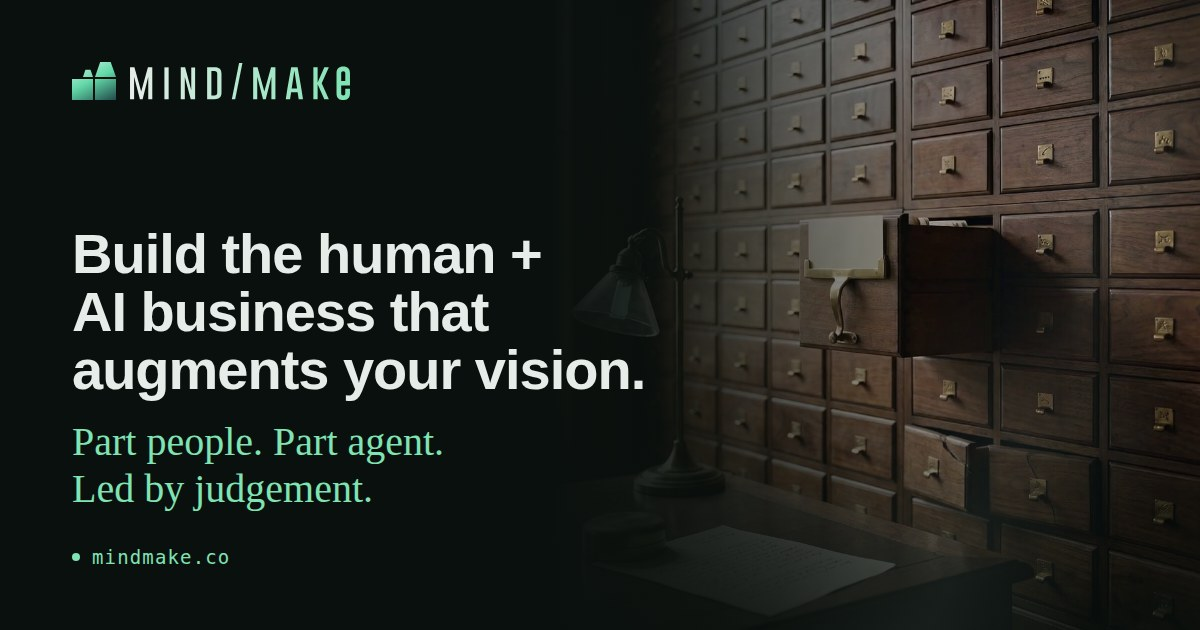
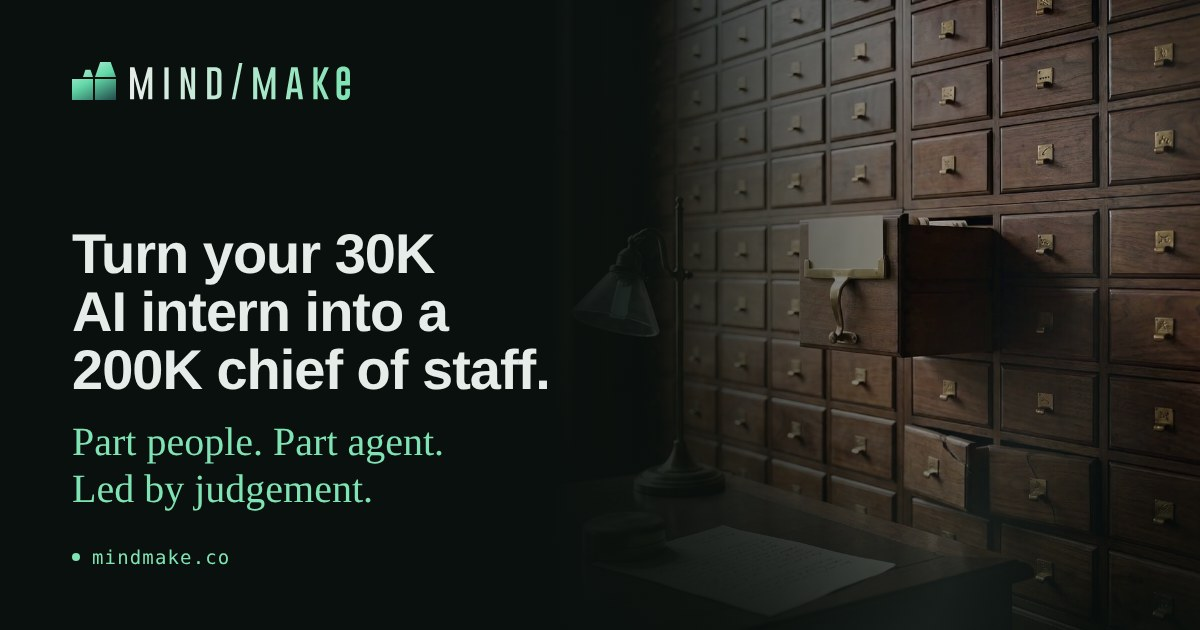
front door r1: the rotation leads with the AI brain line; AI revenue engine
Krish, 15 October 2026: "we need to have the right headlines on rotation,
with the most impactful first", from his pitch line "An AI brain layer
basically turns your AI tool from a 30K intern into a 200K chief of staff".

- The hero rotation leads with "Turn your 30K AI intern into a 200K chief of
  staff.", which is also the h1 and the page title; the standards, taste and
  judgement lines keep their places, R3's headline turns fifth, and "Your
  business levels up when you do." is retired. A new unit test holds the
  rotation's first line to the generated h1, which nothing checked before.
- "Build your AI GTM" becomes "Build your AI revenue engine" everywhere a
  visitor reads it on the site (doors, menus, footer, route-back control,
  /ai-gtm's labels and title, the brief); the /ai-gtm address and the brief
  emails are unchanged. The brain door reads "Unlock and create the idea
  you've been sitting on."
- The generator makes the change (the R3 source is untouched) and asserts no
  "GTM" is left in the homepage markup. Canon and North Star changed first.
- Only the home and /ai-gtm share images are repainted; the other 30 were
  restored after the painter re-encoded them.
- The change is declared word for word in artifacts/front-door-r1/delta.json,
  and every page is compared against the live site before review.

Not merged: this waits for Krish's approval of the rendered result.

Route lock regenerated for the sixteen locked files this commit edits on
[…]

diff --git a/src/components/homepage-release/markup.ts b/src/components/homepage-release/markup.ts
@@ -25,11 +25,11 @@ export const homepageMarkup = `<a class="skip-link" href="#history">Skip to the 
                 </video>
                 <div class="film-wash" aria-hidden="true"></div>
                 <div class="hero-copy">
-                  <h1><span class="mm-hero-line"><span class="mm-hero-row">Build the human + AI</span> <span class="mm-hero-row">business that augments</span> <span class="mm-hero-row"><span class="mm-hero-your">your</span> vision.</span></span></h1>
+                  <h1><span class="mm-hero-line"><span class="mm-hero-row">Turn <span class="mm-hero-your">your</span> 30K AI</span> <span class="mm-hero-row">intern into a 200K</span> <span class="mm-hero-row">chief of staff.</span></span></h1>
                   <p class="hero-lede">For leaders in creative industries with the high standards and curiosity required to drive the new era.</p>
                   <div class="route-doors" role="group" aria-label="Choose a Mindmake route">
-                    <a href="/ai-brain" data-route-choice="brain"><span>Build your</span><strong>AI brain</strong><small>Your judgement, taste, standards & vision, encoded. </small><i>↗</i></a>
-                    <a href="/ai-gtm" data-route-choice="gtm"><span>Build your</span><strong>AI GTM</strong><small>The pricing, positioning and org structure you'll need.</small><i>↗</i></a>
+                    <a href="/ai-brain" data-route-choice="brain"><span>Build your</span><strong>AI brain</strong><small>Unlock and create the idea you've been sitting on.</small><i>↗</i></a>
+                    <a href="/ai-gtm" data-route-choice="gtm"><span>Build your</span><strong>AI revenue engine</strong><small>The pricing, positioning and org structure you'll need.</small><i>↗</i></a>
                   </div>
                 </div>
               </section>
@@ -47,11 +47,11 @@ export const homepageMarkup = `<a class="skip-link" href="#history">Skip to the 
                 </video>
                 <div class="film-wash" aria-hidden="true"></div>
                 <div class="hero-copy">
-                  <h1><span class="mm-hero-line"><span class="mm-hero-row">Build the human + AI</span> <span class="mm-hero-row">business that augments</span> <span class="mm-hero-row"><span class="mm-hero-your">your</span> vision.</span></span></h1>
+                  <h1><span class="mm-hero-line"><span class="mm-hero-row">Turn <span class="mm-hero-your">your</span> 30K AI</span> <span class="mm-hero-row">intern into a 200K</span> <span class="mm-hero-row">chief of staff.</span></span></h1>
                   <p class="hero-lede">For leaders in creative industries with the high standards and curiosity required to drive the new era.</p>
                   <div class="route-doors" role="group" aria-label="Choose a Mindmake route">
-                    <a href="/ai-brain" data-route-choice="brain"><span>Build your</span><strong>AI brain</strong><small>Your judgement, taste, standards & vision, encoded. </small><i>↗</i></a>
-                    <a href="/ai-gtm" data-route-choice="gtm"><span>Build your</span><strong>AI GTM</strong><small>The pricing, positioning and org structure you'll need.</small><i>↗</i></a>
+                    <a href="/ai-brain" data-route-choice="brain"><span>Build your</span><strong>AI brain</strong><small>Unlock and create the idea you've been sitting on.</small><i>↗</i></a>
+                    <a href="/ai-gtm" data-route-choice="gtm"><span>Build your</span><strong>AI revenue engine</strong><small>The pricing, positioning and org structure you'll need.</small><i>↗</i></a>
                   </div>
                 </div>
               </section>
@@ -75,22 +75,22 @@ export const homepageMarkup = `<a class="skip-link" href="#history">Skip to the 
       <section id="route" class="r3-section r3-route r3-reveal" data-component="route">
         <div class="r3-variant preview-desktop"><div class="site-frame" data-composition-desktop="balanced" data-title-desktop="balanced" data-measure-desktop="balanced" data-action="copy" data-back="text" data-caption="show" data-receipt="full" data-steps="numbered" data-reveal="staged">
             
-            <section class="route-stage"><video muted="" loop="" playsinline="" preload="none" aria-hidden="true" poster="${asset2}"><source src="${asset3}" type="video/mp4" media="(min-width: 701px)"></video><div class="wash"></div><button class="back" type="button" data-route-toggle="true">← <span>AI Brain or AI GTM</span></button>			<div class="route-copy" aria-live="polite"><h2>Own your judgement, and amplify it.</h2><p class="lede">Give your standards, taste and business vision a seat at the table, and level up your capabilities as a leader.</p><button class="primary" type="button" data-start-route="brain">Get your free AI brief <span>→</span></button></div><figure></figure><article class="receipt"><header><h3>What stays with you</h3></header><ol><li>Your brain, built out.</li><li>The systems that amplify you, proven.</li><li>The confidence of being an AI era leader.</li></ol></article></section>
+            <section class="route-stage"><video muted="" loop="" playsinline="" preload="none" aria-hidden="true" poster="${asset2}"><source src="${asset3}" type="video/mp4" media="(min-width: 701px)"></video><div class="wash"></div><button class="back" type="button" data-route-toggle="true">← <span>AI brain or AI revenue engine</span></button>			<div class="route-copy" aria-live="polite"><h2>Own your judgement, and amplify it.</h2><p class="lede">Give your standards, taste and business vision a seat at the table, and level up your capabilities as a leader.</p><button class="primary" type="button" data-start-route="brain">Get your free AI brief <span>→</span></button></div><figure></figure><article class="receipt"><header><h3>What stays with you</h3></header><ol><li>Your brain, built out.</li><li>The systems that amplify you, proven.</li><li>The confidence of being an AI era leader.</li></ol></article></section>
           </div></div><div class="r3-variant preview-mobile"><div class="site-frame" data-composition-mobile="copy" data-title-mobile="balanced" data-measure-mobile="balanced" data-action="copy" data-back="text" data-caption="show" data-receipt="full" data-steps="numbered" data-reveal="staged">
             
-            <section class="route-stage"><video muted="" loop="" playsinline="" preload="none" aria-hidden="true" poster="${asset2}"><source src="${asset3}" type="video/mp4" media="(max-width: 700px)"></video><div class="wash"></div><button class="back" type="button" data-route-toggle="true">← <span>AI Brain or AI GTM</span></button>			<div class="route-copy" aria-live="polite"><h2>Own your judgement, and amplify it.</h2><p class="lede">Give your standards, taste and business vision a seat at the table, and level up your capabilities as a leader.</p><button class="primary" type="button" data-start-route="brain">Get your free AI brief <span>→</span></button></div><figure></figure><article class="receipt"><header><h3>What stays with you</h3></header><ol><li>Your brain, built out.</li><li>The systems that amplify you, proven.</li><li>The confidence of being an AI era leader.</li></ol></article></section>
+            <section class="route-stage"><video muted="" loop="" playsinline="" preload="none" aria-hidden="true" poster="${asset2}"><source src="${asset3}" type="video/mp4" media="(max-width: 700px)"></video><div class="wash"></div><button class="back" type="button" data-route-toggle="true">← <span>AI brain or AI revenue engine</span></button>			<div class="route-copy" aria-live="polite"><h2>Own your judgement, and amplify it.</h2><p class="lede">Give your standards, taste and business vision a seat at the table, and level up your capabilities as a leader.</p><button class="primary" type="button" data-start-route="brain">Get your free AI brief <span>→</span></button></div><figure></figure><article class="receipt"><header><h3>What stays with you</h3></header><ol><li>Your brain, built out.</li><li>The systems that amplify you, proven.</li><li>The confidence of being an AI era leader.</li></ol></article></section>
           </div></div>
       </section>
-      <section id="footer" class="r3-footer r3-reveal" data-component="footer"><div class="r3-variant preview-desktop"><footer class="site-footer" data-structure-desktop="rail" data-density-desktop="compact" data-brand="full" data-statement="short" data-routes="single" data-legal="bottom" data-copyright="short" data-ground="dark" data-rule="accent" data-reveal="scroll"><div class="brand-block"><a class="brand" href="/" aria-label="Mindmake home"><img class="mark" src="${asset0}" alt=""><img class="wordmark" src="${asset1}" alt="Mindmake"></a><p class="footer-statement">Keep your edge as AI<br>changes the market.</p><a class="mm-subscribe-cta" href="https://makeyourmindup.ai" target="_blank" rel="noreferrer" data-subscribe-source="homepage_footer">Subscribe for free <span aria-hidden="true">↗</span></a></div><nav class="footer-routes" aria-label="Footer navigation"><a href="/">Home</a><a href="/ai-brain">Build your AI brain</a><a href="/ai-gtm">Build your AI GTM</a><a href="/case-studies">Success stories</a><a href="/blog">Ideas you can use</a><a href="/faq">Questions we get asked</a><a href="/about">About us</a><a href="https://makeyourmindup.ai" target="_blank" rel="noreferrer">Media</a><a href="/start">Get your free AI brief</a></nav><nav class="legal" aria-label="Legal navigation"><a href="/privacy">Privacy</a><a href="/terms">Terms</a></nav><small>© 2026 Mindmake.</small></footer></div><div class="r3-variant preview-mobile"><footer class="site-footer" data-structure-mobile="compact" data-density-mobile="compact" data-brand="full" data-statement="short" data-routes="single" data-legal="bottom" data-copyright="short" data-ground="dark" data-rule="accent" data-reveal="scroll"><div class="brand-block"><a class="brand" href="/" aria-label="Mindmake home"><img class="mark" src="${asset0}" alt=""><img class="wordmark" src="${asset1}" alt="Mindmake"></a><p class="footer-statement">Keep your edge as AI<br>changes the market.</p><a class="mm-subscribe-cta" href="https://makeyourmindup.ai" target="_blank" rel="noreferrer" data-subscribe-source="homepage_footer">Subscribe for free <span aria-hidden="true">↗</span></a></div><nav class="legal" aria-label="Legal navigation"><a href="/privacy">Privacy</a><a href="/terms">Terms</a></nav><small>© 2026 Mindmake.</small></footer></div></section>
+      <section id="footer" class="r3-footer r3-reveal" data-component="footer"><div class="r3-variant preview-desktop"><footer class="site-footer" data-structure-desktop="rail" data-density-desktop="compact" data-brand="full" data-statement="short" data-routes="single" data-legal="bottom" data-copyright="short" data-ground="dark" data-rule="accent" data-reveal="scroll"><div class="brand-block"><a class="brand" href="/" aria-label="Mindmake home"><img class="mark" src="${asset0}" alt=""><img class="wordmark" src="${asset1}" alt="Mindmake"></a><p class="footer-statement">Keep your edge as AI<br>changes the market.</p><a class="mm-subscribe-cta" href="https://makeyourmindup.ai" target="_blank" rel="noreferrer" data-subscribe-source="homepage_footer">Subscribe for free <span aria-hidden="true">↗</span></a></div><nav class="footer-routes" aria-label="Footer navigation"><a href="/">Home</a><a href="/ai-brain">Build your AI brain</a><a href="/ai-gtm">Build your AI revenue engine</a><a href="/case-studies">Success stories</a><a href="/blog">Ideas you can use</a><a href="/faq">Questions we get asked</a><a href="/about">About us</a><a href="https://makeyourmindup.ai" target="_blank" rel="noreferrer">Media</a><a href="/start">Get your free AI brief</a></nav><nav class="legal" aria-label="Legal navigation"><a href="/privacy">Privacy</a><a href="/terms">Terms</a></nav><small>© 2026 Mindmake.</small></footer></div><div class="r3-variant preview-mobile"><footer class="site-footer" data-structure-mobile="compact" data-density-mobile="compact" data-brand="full" data-statement="short" data-routes="single" data-legal="bottom" data-copyright="short" data-ground="dark" data-rule="accent" data-reveal="scroll"><div class="brand-block"><a class="brand" href="/" aria-label="Mindmake home"><img class="mark" src="${asset0}" alt=""><img class="wordmark" src="${asset1}" alt="Mindmake"></a><p class="footer-statement">Keep your edge as AI<br>changes the market.</p><a class="mm-subscribe-cta" href="https://makeyourmindup.ai" target="_blank" rel="noreferrer" data-subscribe-source="homepage_footer">Subscribe for free <span aria-hidden="true">↗</span></a></div><nav class="legal" aria-label="Legal navigation"><a href="/privacy">Privacy</a><a href="/terms">Terms</a></nav><small>© 2026 Mindmake.</small></footer></div></section>
     </main>
     <aside class="r3-navigation" aria-hidden="true" aria-label="Site navigation" role="dialog" aria-modal="true" inert><div class="r3-variant preview-desktop"><div class="site-frame" data-structure-desktop="index" data-scale-desktop="balanced" data-density-desktop="balanced" data-order="build" data-secondary="footer" data-active="rule" data-action="bar" data-ground="solid" data-entrance="stepped">
               
               <div class="ground" aria-hidden="true"></div>
               <header class="site-masthead"><a class="brand" href="/" aria-label="Mindmake home" tabindex="-1"><img class="mark" src="${asset0}" alt=""><img class="wordmark" src="${asset1}" alt="Mindmake"></a><button class="menu-control" type="button" aria-label="Close navigation"><b>Close</b><i aria-hidden="true"></i></button></header>
-              <div class="menu-surface"><nav class="primary-routes" aria-label="Main navigation"><a href="/">Home</a><a href="/ai-brain">Build your AI brain</a><a href="/ai-gtm">Build your AI GTM</a><a href="/case-studies">Success stories</a><a href="/blog">Ideas you can use</a><a href="/faq">Questions we get asked</a><a href="/about">About us</a><a href="https://makeyourmindup.ai" target="_blank" rel="noreferrer" class="mm-route-badged" data-badge="Subscribe for free">Media</a></nav><a class="start-action" type="button" href="/start">Get your free AI brief <span aria-hidden="true">→</span></a><nav class="secondary-routes" aria-label="Additional navigation"><a href="/privacy">Privacy</a><a href="/terms">Terms</a></nav></div>
+              <div class="menu-surface"><nav class="primary-routes" aria-label="Main navigation"><a href="/">Home</a><a href="/ai-brain">Build your AI brain</a><a href="/ai-gtm">Build your AI revenue engine</a><a href="/case-studies">Success stories</a><a href="/blog">Ideas you can use</a><a href="/faq">Questions we get asked</a><a href="/about">About us</a><a href="https://makeyourmindup.ai" target="_blank" rel="noreferrer" class="mm-route-badged" data-badge="Subscribe for free">Media</a></nav><a class="start-action" type="button" href="/start">Get your free AI brief <span aria-hidden="true">→</span></a><nav class="secondary-routes" aria-label="Additional navigation"><a href="/privacy">Privacy</a><a href="/terms">Terms</a></nav></div>
             </div></div><div class="r3-variant preview-mobile"><div class="site-frame" data-structure-mobile="list" data-scale-mobile="balanced" data-density-mobile="balanced" data-order="build" data-secondary="footer" data-active="rule" data-action="bar" data-ground="solid" data-entrance="stepped">
               
               <div class="ground" aria-hidden="true"></div>
               <header class="site-masthead"><a class="brand" href="/" aria-label="Mindmake home" tabindex="-1"><img class="mark" src="${asset0}" alt=""><img class="wordmark" src="${asset1}" alt="Mindmake"></a><button class="menu-control" type="button" aria-label="Close navigation"><b>Close</b><i aria-hidden="true"></i></button></header>
-              <div class="menu-surface"><nav class="primary-routes" aria-label="Main navigation"><a href="/">Home</a><a href="/ai-brain">Build your AI brain</a><a href="/ai-gtm">Build your AI GTM</a><a href="/case-studies">Success stories</a><a href="/blog">Ideas you can use</a><a href="/faq">Questions we get asked</a><a href="/about">About us</a><a href="https://makeyourmindup.ai" target="_blank" rel="noreferrer" class="mm-route-badged" data-badge="Subscribe for free">Media</a></nav><a class="start-action" type="button" href="/start">Get your free AI brief <span aria-hidden="true">→</span></a><nav class="secondary-routes" aria-label="Additional navigation"><a href="/privacy">Privacy</a><a href="/terms">Terms</a></nav></div>
+              <div class="menu-surface"><nav class="primary-routes" aria-label="Main navigation"><a href="/">Home</a><a href="/ai-brain">Build your AI brain</a><a href="/ai-gtm">Build your AI revenue engine</a><a href="/case-studies">Success stories</a><a href="/blog">Ideas you can use</a><a href="/faq">Questions we get asked</a><a href="/about">About us</a><a href="https://makeyourmindup.ai" target="_blank" rel="noreferrer" class="mm-route-badged" data-badge="Subscribe for free">Media</a></nav><a class="start-action" type="button" href="/start">Get your free AI brief <span aria-hidden="true">→</span></a><nav class="secondary-routes" aria-label="Additional navigation"><a href="/privacy">Privacy</a><a href="/terms">Terms</a></nav></div>
             </div></div></aside>`;

diff --git a/index.html b/index.html
@@ -98,8 +98,8 @@
       }catch(e){}})();
     </script>
 
-    <title>Build the human + AI business that augments your vision. | Mindmake</title>
-    <meta name="title" content="Build the human + AI business that augments your vision. | Mindmake" />
+    <title>Turn your 30K AI intern into a 200K chief of staff. | Mindmake</title>
+    <meta name="title" content="Turn your 30K AI intern into a 200K chief of staff. | Mindmake" />
     <meta name="description" content="Part people. Part agent. Led by judgement. Build your AI brain or your AI native pricing, positioning and organisation with Mindmake." />
     <meta name="author" content="Mindmake" />
     <meta name="robots" content="index, follow, max-image-preview:large, max-snippet:-1, max-video-preview:-1" />
@@ -109,18 +109,18 @@
     <meta property="og:url" content="https://mindmake.co/" />
     <meta property="og:site_name" content="Mindmake" />
     <meta property="og:locale" content="en_GB" />
-    <meta property="og:title" content="Build the human + AI business that augments your vision. | Mindmake" />
+    <meta property="og:title" content="Turn your 30K AI intern into a 200K chief of staff. | Mindmake" />
     <meta property="og:description" content="Part people. Part agent. Led by judgement. Build your AI brain or your AI native pricing, positioning and organisation with Mindmake." />
     <meta property="og:image" content="https://mindmake.co/social/home.jpg" />
     <meta property="og:image:width" content="1200" />
     <meta property="og:image:height" content="630" />
-    <meta property="og:image:alt" content="Build the human + AI business that augments your vision. Part people. Part agent. Led by judgement." />
+    <meta property="og:image:alt" content="Turn your 30K AI intern into a 200K chief of staff. Part people. Part agent. Led by judgement." />
 
     <meta name="twitter:card" content="summary_large_image" />
-    <meta name="twitter:title" content="Build the human + AI business that augments your vision. | Mindmake" />
+    <meta name="twitter:title" content="Turn your 30K AI intern into a 200K chief of staff. | Mindmake" />
     <meta name="twitter:description" content="Part people. Part agent. Led by judgement. Build your AI brain or your AI native pricing, positioning and organisation with Mindmake." />
     <meta name="twitter:image" content="https://mindmake.co/social/home.jpg" />
-    <meta name="twitter:image:alt" content="Build the human + AI business that augments your vision. Part people. Part agent. Led by judgement." />
+    <meta name="twitter:image:alt" content="Turn your 30K AI intern into a 200K chief of staff. Part people. Part agent. Led by judgement." />
 
     <meta name="application-name" content="Mindmake" />
     <meta name="theme-color" content="#0a100d" />

diff --git a/src/components/homepage-release/heroRotation.ts b/src/components/homepage-release/heroRotation.ts
@@ -1,9 +1,9 @@
 /**
  * The hero headline turns through five lines once, then rests on the first
- * (Krish, 2026-09-27). Each says that the business moves when the leader
- * does, and each underlines the "you" or "your" it turns on. The second and
- * third speak to standards and taste, early in the turn, so a reader who does
- * not see themselves in them knows the page is not for them.
+ * (Krish, 2026-09-27), and each underlines the "you" or "your" it turns on.
+ * The first says what an AI brain does for a leader (Krish, 2026-10-15). The
+ * second and third speak to standards and taste, early in the turn, so a
+ * reader who does not see themselves in them knows the page is not for them.
  *
  * Every headline is set in the same three fixed lines (Krish: "every headline
  * takes exactly the same amount of lines on mobile and desktop"), so the block
@@ -18,13 +18,15 @@
  * off screen or the tab is hidden.
  */
 type Row = string;
-/** Three rows per headline; *word* marks the underlined you or your. */
-const LINES: ReadonlyArray<readonly [Row, Row, Row]> = [
-  ["Build the human + AI", "business that augments", "*your* vision."],
+/** Three rows per headline; *word* marks the underlined you or your. The most
+    impactful leads (Krish, 2026-10-15): what an AI brain does for a leader, in
+    the terms a chief executive grasped at once. R3's headline turns last. */
+export const LINES: ReadonlyArray<readonly [Row, Row, Row]> = [
+  ["Turn *your* 30K AI", "intern into a 200K", "chief of staff."],
   ["High standards", "deserve an AI that", "knows *yours*."],
   ["AI can copy almost", "anything except", "*your* taste."],
-  ["Your business", "levels up when", "*you* do."],
   ["Amplify *your*", "judgement, and the", "business follows."],
+  ["Build the human + AI", "business that augments", "*your* vision."],
 ];
 const FIRST_HOLD = 6500;
 const HOLD = 5500;

diff --git a/src/test/hero-rotation.test.ts b/src/test/hero-rotation.test.ts
@@ -1,0 +1,29 @@
+import { describe, expect, it } from "vitest";
+import { LINES } from "@/components/homepage-release/heroRotation";
+import { homepageMarkup } from "@/components/homepage-release/markup";
+
+/* The hero headline turns through five lines and rests on the first, which is
+   also the h1 the generator writes into the markup. A screen reader, a crawler,
+   a page without script and a reader with reduced motion only ever meet that
+   one, so the two must never drift apart. */
+const rowHtml = (row: string) => `<span class="mm-hero-row">${row.replace(/\*(.+?)\*/g, '<span class="mm-hero-your">$1</span>')}</span>`;
+
+describe("the hero rotation", () => {
+  it("leads with the generated h1, row for row, on desktop and phone", () => {
+    const h1 = `<h1><span class="mm-hero-line">${LINES[0].map(rowHtml).join(" ")}</span></h1>`;
+    expect(homepageMarkup.split(h1)).toHaveLength(3);
+    expect(homepageMarkup.match(/<h1>/g)).toHaveLength(2);
+  });
+
+  it("turns through five headlines, each in three rows with one underlined you or your", () => {
+    expect(LINES).toHaveLength(5);
+    for (const line of LINES) {
+      expect(line).toHaveLength(3);
+      const marks = line.join(" ").match(/\*(.+?)\*/g) ?? [];
+      expect(marks, line.join(" ")).toHaveLength(1);
+      expect(marks[0]).toMatch(/^\*(you|your|yours)\*$/i);
+      for (const row of line) expect(row).not.toMatch(/[—–]/);
+    }
+    expect(new Set(LINES.map((line) => line.join(" "))).size).toBe(5);
+  });
+});

diff --git a/src/components/mindmake/LeadBrief.tsx b/src/components/mindmake/LeadBrief.tsx
@@ -91,7 +91,7 @@ type CompanyReadState = "idle" | "reading" | "ready" | "failed";
  */
 const DOOR_CHOICES: ReadonlyArray<{ route: BriefRoute; label: string; line: string }> = [
   { route: "brain", label: "Build your AI brain", line: "An AI that knows your standards, your context and the decisions you have already made." },
-  { route: "gtm", label: "Build your AI GTM", line: "One part of how you sell, rebuilt: what you offer, what you charge, how you stand out, who sells." },
+  { route: "gtm", label: "Build your AI revenue engine", line: "One part of how you sell, rebuilt: what you offer, what you charge, how you stand out, who sells." },
 ];
 
 /* The dialog's tone arc: the question in the dark, the read on paper, the
@@ -1055,7 +1055,7 @@ export function LeadBrief({ open, onClose, route = "home", presentation = "modal
     setStep(handoffEnabled ? "contact" : "success");
   };
 
-  const previewDoorLabel = door === "brain" ? "AI Brain" : door === "gtm" ? "AI GTM" : "Mindmake";
+  const previewDoorLabel = door === "brain" ? "AI Brain" : door === "gtm" ? "AI revenue engine" : "Mindmake";
   const previewDivision = DIVISIONS.find((entry) => entry.id === (collected?.division ?? division))?.label ?? "Leader";
   const previewStartingPoint = `${previewDoorLabel} · ${pressure.replace(/[.]+$/, "")}.`;
   const previewLeaves = [

diff --git a/src/components/mindmake/PairingBridge.tsx b/src/components/mindmake/PairingBridge.tsx
@@ -26,16 +26,16 @@ import "@/styles/mindmake-pairing.css";
 const PAIRS = {
   brain: {
     here: "AI brain",
-    there: "AI GTM",
-    title: "An AI brain gives your GTM something to run on.",
-    body: "AI GTM turns an AI market shift into one tested commercial move. It moves faster when the judgement behind it is already written down.",
+    there: "AI revenue engine",
+    title: "An AI brain gives your revenue engine something to run on.",
+    body: "An AI revenue engine turns an AI market shift into one tested commercial move. It moves faster when the judgement behind it is already written down.",
     to: "/ai-gtm",
-    label: "Build your AI GTM",
+    label: "Build your AI revenue engine",
   },
   gtm: {
-    here: "AI GTM",
+    here: "AI revenue engine",
     there: "AI brain",
-    title: "Your GTM runs better on an AI brain.",
+    title: "Your revenue engine runs better on an AI brain.",
     body: "An AI brain gives your standards, context and past decisions a memory you can use, so each pricing, positioning and org call starts from what you already know.",
     to: "/ai-brain",
     label: "Build your AI brain",

diff --git a/src/lib/publicLinks.ts b/src/lib/publicLinks.ts
@@ -66,7 +66,7 @@ export const CONTACT_EMAIL = "krish@mindmake.co";
 export const PRIMARY_ROUTES: ReadonlyArray<{ label: string; href: string; external?: boolean; badge?: string }> = [
   { label: "Home", href: "/" },
   { label: "Build your AI brain", href: "/ai-brain" },
-  { label: "Build your AI GTM", href: "/ai-gtm" },
+  { label: "Build your AI revenue engine", href: "/ai-gtm" },
   /* Plainer labels that say what the reader gets (Krish, 2026-09-25). Each
      page's own title matches its label, so the click lands where it said. */
   { label: "Success stories", href: "/case-studies" },

diff --git a/src/pages/AiGtm.tsx b/src/pages/AiGtm.tsx
@@ -230,7 +230,7 @@ export default function AiGtm() {
 
   return (
     <MindmakeShell onStart={() => openBrief("gtm")} siteClassName="mm-route-gtm">
-      <SEO title="Build your AI GTM" description="Make your pricing, positioning and team AI-native, then test it with real buyers." canonical="/ai-gtm" />
+      <SEO title="Build your AI revenue engine" description="Make your pricing, positioning and team AI-native, then test it with real buyers." canonical="/ai-gtm" />
       <div ref={rootRef} className="mm-gtm" data-mode={mode}>
         <Opening
           lead={OPENING.lead}

diff --git a/src/test/LeadBrief.test.tsx b/src/test/LeadBrief.test.tsx
@@ -1021,7 +1021,7 @@ describe("the door", () => {
     render(<LeadBrief open onClose={() => undefined} />);
     expect(screen.getByRole("heading", { name: "Which one are you here for?" })).toBeInTheDocument();
     expect(screen.getByRole("button", { name: /Build your AI brain/ })).toBeInTheDocument();
-    expect(screen.getByRole("button", { name: /Build your AI GTM/ })).toBeInTheDocument();
+    expect(screen.getByRole("button", { name: /Build your AI revenue engine/ })).toBeInTheDocument();
   });
 
   it("does not ask when the door is already known", () => {

diff --git a/src/components/mindmake/CloseBlock.tsx b/src/components/mindmake/CloseBlock.tsx
@@ -57,7 +57,7 @@ interface CloseBlockProps {
 /** The two doors, by the names the canon gives them. */
 const DOORS: ReadonlyArray<{ route: BriefRoute; label: string }> = [
   { route: "brain", label: "Build your AI brain" },
-  { route: "gtm", label: "Build your AI GTM" },
+  { route: "gtm", label: "Build your AI revenue engine" },
 ];
 
 export function CloseBlock({ claim, body, onStart, ground, instrument, panelId, fork }: CloseBlockProps) {

diff --git a/src/pages/Index.tsx b/src/pages/Index.tsx
@@ -89,7 +89,7 @@ export default function Index() {
   return (
     <>
       <SEO
-        title="Build the human + AI business that augments your vision."
+        title="Turn your 30K AI intern into a 200K chief of staff."
         description="Part people. Part agent. Led by judgement. Build your AI brain or your AI native pricing, positioning and organisation with Mindmake."
         canonical="/"
       />

diff --git a/src/components/mindmake/MindmakeShell.tsx b/src/components/mindmake/MindmakeShell.tsx
@@ -22,7 +22,7 @@ interface MindmakeShellProps {
  * the menu and the footer carry the whole site.
  */
 const ACTION_BAR_DOORS: Record<string, ActionBarDoor> = {
-  "/ai-brain": { to: "/ai-gtm", label: "Build your AI GTM" },
+  "/ai-brain": { to: "/ai-gtm", label: "Build your AI revenue engine" },
   "/ai-gtm": { to: "/ai-brain", label: "Build your AI brain" },
 };
 
